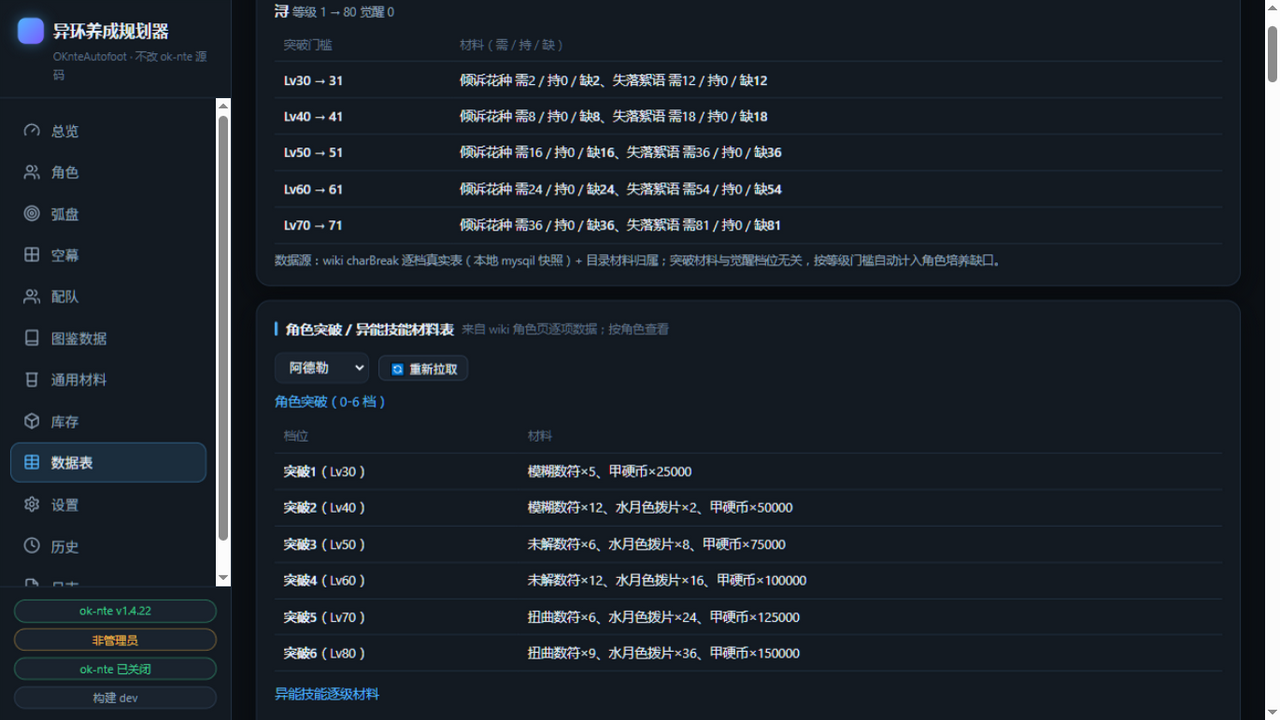
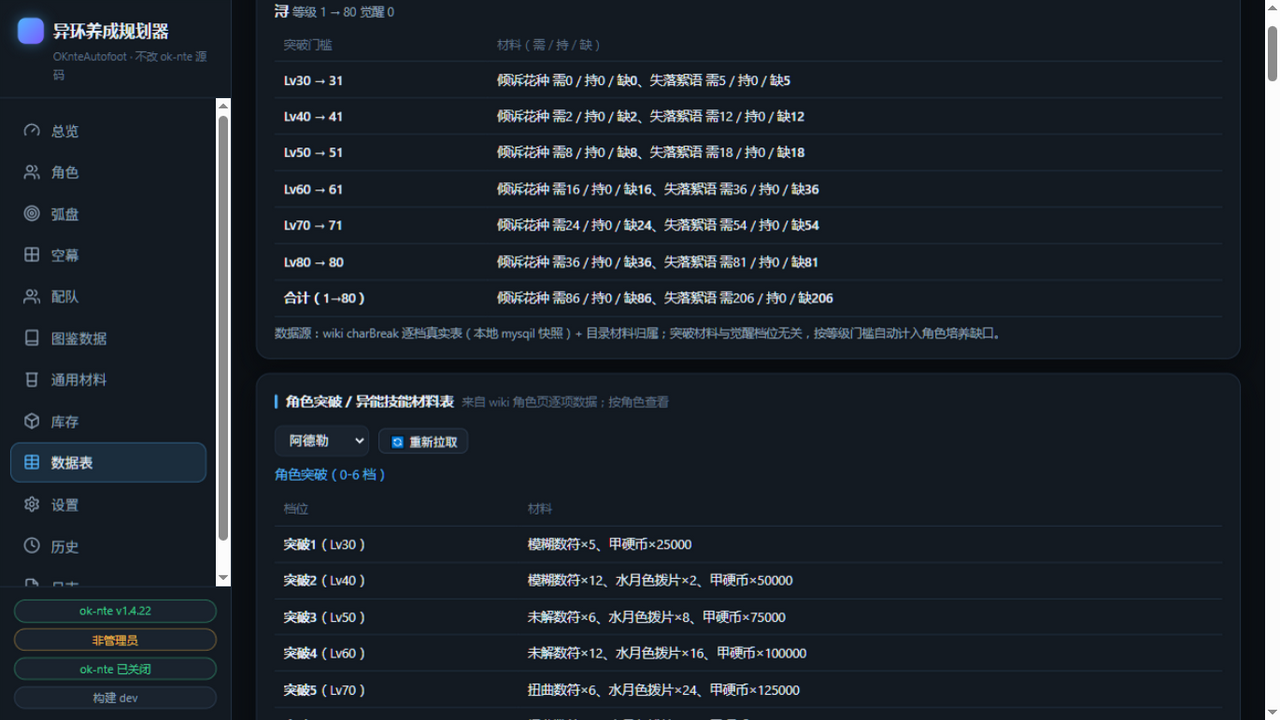
fix: 重审计功能缺口修复——词条组/驱动块编辑绑定与保存收集、弧盘搜索空状态、通用材料显示名、突破合计行、预演cap对齐（含验证截图与报告）

diff --git a/app/web/index.html b/app/web/index.html
@@ -982,6 +982,8 @@ function arcWeaponOptions(c, weaponMeta, term){
   if(term) rows = rows.filter(x=>x.name.toLowerCase().includes(term.toLowerCase()));
   rows.sort((a,b)=> (rank(a.rarity)-rank(b.rarity)) || a.name.localeCompare(b.name,"zh"));
   let opts=`<option value="" ${!c.weapon?"selected":""}>（未选择弧盘）</option>`;
+  if(term && !rows.length)
+    opts+=`<option disabled>（无匹配结果：换个关键词，或到「图鉴数据」页登记该弧盘）</option>`;
   rows.forEach(x=>{
     const tag=x.rarity?`（${x.rarity}）`:"";
     opts+=`<option value="${esc(x.name)}" ${x.name===c.weapon?"selected":""}>${esc(x.name)}${tag}</option>`;});
@@ -1115,10 +1117,18 @@ async function renderNullmux(){
       const el=document.querySelector(`.nm-card[data-cid="${c.id}"]`);
       if(!el) return c;
       const cassette={set:el.querySelector(".nm-set").value||null, main:el.querySelector(".nm-main").value||null};
+      // 驱动块：主属性两个下拉（攻击力/生命值，wiki 固定池）都保存，join 进 main 字段
       const drivers=[...el.querySelectorAll(".nm-driver")].map(row=>({
         shape:row.querySelector(".d-shape").value, quality:row.querySelector(".d-quality").value,
-        main:row.querySelector(".d-main").value, subs:[...row.querySelectorAll(".d-sub")].map(x=>x.value||"").slice(0,4)}))
+        main:[...row.querySelectorAll(".d-main")].map(x=>x.value).filter(Boolean).join("+"),
+        subs:[...row.querySelectorAll(".d-sub")].map(x=>x.value||"").slice(0,4)}))
         .filter(d=>d.shape);
+      // 最佳词条组：从 DOM 收集（此前只透传旧值，新增/编辑/删除全部丢失）
+      const stigma_groups=[...el.querySelectorAll(".nm-group")].map(g=>({
+        label:g.querySelector(".g-label")?.value.trim()||"",
+        main:g.querySelector(".g-main")?.value||"",
+        subs:[...g.querySelectorAll(".g-sub")].map(x=>x.value||"").slice(0,4)}))
+        .filter(g=>g.label);
       // 空幕结点/等级（拆页后恢复的编辑入口）；轨道合并保存，不动其他页维护的字段
       const mats={...(c.mats||{})};
       const nodeSel=el.querySelector(".nm-node");
@@ -1126,12 +1136,44 @@ async function renderNullmux(){
       const tracks={...(c.tracks||{})};
       el.querySelectorAll(".nm-console").forEach(inp=>{
         tracks.console_level={...(tracks.console_level||{}),[inp.dataset.tk]:+inp.value||0};});
-      return {...c, cassette, drivers, mats, tracks};
+      return {...c, cassette, drivers, stigma_groups, mats, tracks};
     });
     try{ const r=await api("/api/characters",{characters:charsOut});
       BOOT.state.characters=r.characters||charsOut; toast("空幕记录已保存"); renderNullmux();
     }catch(e){alertErr(e);}
   };
+  // 词条组/驱动块的 ＋添加 / ×删除（此前按钮无任何绑定，行数无法增减）
+  const nmList=$("#nmList");
+  if(nmList) nmList.addEventListener("click", e=>{
+    const card=e.target.closest(".nm-card"); if(!card) return;
+    if(e.target.closest(".nm-add-group")){
+      const rows=card.querySelectorAll(".nm-group");
+      if(rows.length>=3){ toast("词条组最多 3 组","err"); return; }
+      const wrap=card.querySelector(".nm-groups");
+      wrap?.insertAdjacentHTML("beforeend", stigmaGroupRow({label:`词条组${rows.length+1}`}, mainStats, subStats));
+    }
+    if(e.target.closest(".g-del")) e.target.closest(".nm-group").remove();
+    if(e.target.closest(".nm-add-driver")){
+      card.querySelector(".extra-empty-drv")?.remove();
+      const drv=card.querySelector(".nm-drivers");
+      drv?.insertAdjacentHTML("beforeend", nullmuxDriverRow({}, driverMains, subStats));
+      const n=card.querySelectorAll(".nm-driver").length;
+      const cnt=card.querySelector(".drv-count"); if(cnt) cnt.textContent=n;
+    }
+    if(e.target.closest(".nm-del")){
+      e.target.closest(".nm-driver").remove();
+      const cnt=card.querySelector(".drv-count"); if(cnt) cnt.textContent=card.querySelectorAll(".nm-driver").length;
+    }
+  });
+}
+function stigmaGroupRow(g, mainStats, subStats){
+  return `
+    <div class="row nm-group" style="gap:5px;margin:4px 0">
+      <input class="g-label" value="${esc(g.label||"")}" style="width:110px" placeholder="词条名">
+      <select class="g-main" style="width:130px">${statOpts(mainStats,g.main)}</select>
+      ${[0,1,2,3].map(i=>`<select class="g-sub" style="width:110px">${statOpts(subStats,(g.subs||[])[i])}</select>`).join("")}
+      <button class="btn sec mini g-del">×</button>
+    </div>`;
 }
 function nullmuxCard(c,sets,mainStats,subStats,driverMains,suitOpts,statOpts,nodeOpts,consoleT){
   const cassette=c.cassette||{};
@@ -1150,26 +1192,23 @@ function nullmuxCard(c,sets,mainStats,subStats,driverMains,suitOpts,statOpts,nod
         <span class="muted">→</span>
         <input type="number" class="nm-console" data-tk="tgt" value="${c.tracks?.console_level?.tgt??1}" min="0" max="${consoleT?.max??20}" style="width:70px">
         <span class="muted">（逐级消耗 wiki 未收录，留空待校准）</span></div>
-      <div class="row" style="margin:6px 0 2px"><span class="muted">最佳词条组（≤3 组）</span>
+      <div class="row" style="margin:6px 0 2px"><span class="muted">最佳词条组（≤3 组，用户维护，不参与数值计算）</span>
         <button class="btn sec mini nm-add-group">＋ 词条组</button></div>
-      ${(groups||[]).map((g,gi)=>`
-        <div class="row nm-group" style="gap:5px;margin:4px 0">
-          <input class="g-label" value="${esc(g.label||`词条组${gi+1}`)}" style="width:110px" placeholder="词条名">
-          <select class="g-main" style="width:130px">${statOpts(mainStats,g.main)}</select>
-          ${[0,1,2,3].map(i=>`<select class="g-sub" style="width:110px">${statOpts(subStats,(g.subs||[])[i])}</select>`).join("")}
-          <button class="btn sec mini g-del">×</button>
-        </div>`).join("")}
-      <div style="margin-top:8px"><span class="muted">驱动块（${drivers.length}）</span>
+      <div class="nm-groups">${(groups||[]).map(g=>stigmaGroupRow(g,mainStats,subStats)).join("")}</div>
+      <div style="margin-top:8px"><span class="muted">驱动块（<span class="drv-count">${drivers.length}</span>）</span>
         <button class="btn sec mini nm-add-driver">＋ 驱动块</button></div>
-      <div class="nm-drivers">${drivers.map(d=>nullmuxDriverRow(d,driverMains,subStats)).join("")||'<span class="muted">（暂无驱动块记录）</span>'}</div>
+      <div class="nm-drivers">${drivers.map(d=>nullmuxDriverRow(d,driverMains,subStats)).join("")||'<span class="muted extra-empty-drv">（暂无驱动块记录）</span>'}</div>
     </div>`;
 }
 function nullmuxDriverRow(d,driverMains,subStats){
+  // 主属性两位（wiki 固定池 攻击力+生命值）：新行默认各占一位；旧单值/拼接值兼容回填
+  const parts=(d.mains&&d.mains.length===2)?d.mains.slice(0,2):(d.main?d.main.split("+"):[]);
+  const sel=[parts[0]||driverMains[0], parts[1]||driverMains[1]||driverMains[0]];
   return `
     <div class="row nm-driver" style="gap:5px;margin:4px 0">
       <select class="d-shape" style="width:70px">${["Ⅱ型","Ⅲ型","Ⅳ型"].map(s=>`<option ${d.shape===s?"selected":""}>${s}</option>`).join("")}</select>
       <select class="d-quality" style="width:80px">${["蓝","橙","紫"].map(q=>`<option ${d.quality===q?"selected":""}>${q}</option>`).join("")}</select>
-      ${[0,1].map(i=>`<select class="d-main" style="width:100px">${driverMains.map(m=>`<option ${(d.main===m||(d.mains&&d.mains[i]===m))?"selected":""}>${m}</option>`).join("")}</select>`).join("")}
+      ${[0,1].map(i=>`<select class="d-main" style="width:100px">${driverMains.map(m=>`<option ${sel[i]===m?"selected":""}>${m}</option>`).join("")}</select>`).join("")}
       ${[0,1,2,3].map(i=>`<select class="d-sub" style="width:110px">${subStats.map(x=>`<option ${d.subs?.[i]===x?"selected":""}>${esc(x)}</option>`).join("")}</select>`).join("")}
       <button class="btn sec mini nm-del">×</button>
     </div>`;
@@ -1331,7 +1370,14 @@ async function renderBreakthroughBlock(host){
     host.innerHTML=`<div class="muted">没有待突破的角色：把角色卡的「角色等级目标」调高跨过门槛（30/40/50/60/70，即突破到 31/41/51/61/71）即自动出现门槛材料与缺口。</div>`;
     return;
   }
-  host.innerHTML=rows.map(c=>`
+  host.innerHTML=rows.map(c=>{
+    // 当前档→目标档 合计（逐门槛按材料聚合：需/持/缺 全量汇总）
+    const totals={};
+    c.gates.forEach(g=>g.mats.forEach(m=>{
+      const t=totals[m.mat_id]=totals[m.mat_id]||{name:m.name,need:0,have:0,short:0};
+      t.need+=m.need; t.have+=m.have; t.short+=m.short;
+    }));
+    return `
     <div style="margin:10px 0 4px"><b>${esc(c.name)}</b>
       <span class="muted num">等级 ${c.level_cur} → ${c.level_tgt}</span>
       <span class="muted num">觉醒 ${c.awakening}</span>
@@ -1339,7 +1385,9 @@ async function renderBreakthroughBlock(host){
     <table><tr><th>突破门槛</th><th>材料（需 / 持 / 缺）</th></tr>
       ${c.gates.map(g=>`<tr><td class="num"><b>Lv${g.gate} → ${g.to_level}</b></td>
         <td>${g.mats.map(m=>`${esc(m.name)} <span class="num">需${m.need} / 持${m.have} / 缺<b>${m.short}</b></span>`).join("、")||"（材料归属未收录）"}</td></tr>`).join("")}
-    </table>`).join("")
+      <tr><td class="num"><b>合计（${c.level_cur}→${c.level_tgt}）</b></td>
+        <td>${Object.values(totals).map(t=>`${esc(t.name)} <span class="num">需${t.need} / 持${t.have} / 缺<b>${t.short}</b></span>`).join("、")||"（材料归属未收录）"}</td></tr>
+    </table>`;}).join("")
     +`<div class="muted" style="margin-top:6px">数据源：wiki charBreak 逐档真实表（本地 mysqil 快照）+ 目录材料归属；突破材料与觉醒档位无关，按等级门槛自动计入角色培养缺口。</div>`;
 }
 
@@ -1347,7 +1395,7 @@ function renderTables(){
   const y=BOOT.tables.yields.per_run, hy=BOOT.tables.yields.hunter_yield||{};
   const M=BOOT.tables.materials, all=allMaterials();
   $("#main").innerHTML=`
-    <div class="card"><h3>角色突破逐档材料（觉醒档 → 目标档）<span class="h-sub">按角色计算 需/持/缺；调高角色卡「觉醒目标」即可规划后续档位</span></h3>
+    <div class="card"><h3>角色突破逐档材料（等级门槛 31/41/51/61/71 + 满级突破）<span class="h-sub">按角色等级目标计算 需/持/缺；调高角色卡「角色等级目标」即可规划后续门槛</span></h3>
       <div id="btBody"><div class="muted">加载中…</div></div></div>
     <div class="card"><h3>角色突破 / 异能技能材料表<span class="h-sub">来自 wiki 角色页逐项数据；按角色查看</span></h3>
       <div id="upgBody"><div class="muted">加载中…</div></div></div>
@@ -1510,8 +1558,14 @@ async function renderCommon(){
     } <span class="muted">${unit}</span></td>
     <td>${edited?`<span class="tag warn">已改（默认 ${JSON.stringify(def)}）</span>`:`<span class="tag">默认</span>`}</td></tr>`;
   }).join("");
-  const skillName=id=>({"ability_1":"军衔系（灵可线）","ability_2":"鸽子系（浔线）","ability_3":"黑帽子系（残虹线）"}[id]||id);
-  const canName=id=>({"arc_1":"戏剧芯（固态）","arc_2":"液态梦（等离子）","arc_3":"苹果核（液态）","arc_4":"螺旋乐（气态）","arc_5":"冷点心（聚合）"}[id]||id);
+  /* 技能书系/罐头系显示名统一走 materials targets（display_name），杜绝 ability_N 裸 ID：
+     旧硬编码字典只覆盖 ability_1..3，ability_4/5（相/魂系角色）曾直接显示内部 ID */
+  const matDisplayName=id=>{
+    const t=((BOOT.tables.materials||{}).targets||[]).find(x=>x.id===id);
+    return t?((t.display_name||t.name).split("（")[0]):id;
+  };
+  const skillName=matDisplayName;
+  const canName=matDisplayName;
   const mapRows=(r.mapping||[]).map(m=>{
     const bossTxt=m.boss?`${esc(matAllName(m.boss.mat_id))} ← ${esc(m.boss.boss)}`:`<span class="tag warn">待核对</span>`;
     const wkTxt=m.weekly?`${esc(matAllName(m.weekly.mat_id))}`:`<span class="tag warn">待核对</span>`;

diff --git a/app/planner.py b/app/planner.py
@@ -480,7 +480,7 @@ def projected_stamina(now=None):
     if base < 0:
         return None
     rate = max(0.0, float(settings.get("stamina_regen_per_hour") or 0))
-    cap = max(1.0, float(settings.get("stamina_cap") or 240))
+    cap = max(1.0, float(settings.get("stamina_cap") or 320))
     now = now or datetime.now()
     hours = max(0.0, (now - at).total_seconds() / 3600)
     return round(min(cap, base + rate * hours), 1)
@@ -502,7 +502,7 @@ def preview_days(days=3, now=None):
     settings = STATE.settings
     limit = max(0, int(settings.get("daily_stamina_limit", 180) or 0))
     rate = max(0.0, float(settings.get("stamina_regen_per_hour") or 0))
-    cap = max(1.0, float(settings.get("stamina_cap") or 240))
+    cap = max(1.0, float(settings.get("stamina_cap") or 320))
     if rate > 0 and rate * 24 < limit:
         warnings.append(
             f"体力恢复速率({rate}/小时)×24={rate * 24:g} 低于每日限额 {limit}，"

diff --git a/reports/2026-10-31-回归修复与功能补齐.md b/reports/2026-10-31-回归修复与功能补齐.md
@@ -1,39 +1,5 @@
 # 回归修复与功能补齐报告（2026-10-31）
 
-<<<<<<< HEAD
-## 第二轮：真机反馈修复（同日追加）
-
-你实测后提出 6 项，处理结果：
-
-| 反馈 | 处理 | 状态 |
-|---|---|---|
-| ①都市特技名字自动拉取 | wiki 角色页 `data-upgrade.skills[]` 按升级材料含 `CityAbility_UpMaterial` 识别都市特技（如 浔=寻宝时刻、卡厄斯=垂钓大师+记忆/船锚、真红=偶尔摸鱼+处处好胜）；抓取后（数据表页按钮，24/25 成功，塔吉多 wiki 无数据）导入与启动回填自动预填名字+槽位数（1 或 2 位按实机数据决定，只补空不覆盖）。特技升级消耗 CityAbility_UpMaterial+方斯，均非体力本材料，不纳入体力计划 | ✅ 已完成且已验证（卡厄斯/真红实机预填截图） |
-| ②技能目标≥当前 | 角色卡"当前等级"输入联动：当前改高时目标自动抬到≥当前 | ✅ 已完成且已验证 |
-| ③保存按钮提到上方固定 | 六个主保存行（角色/弧盘/空幕/配队/库存/设置）移到各页首行并 `position:sticky` 吸顶 | ✅ 已完成且已验证（截图） |
-| ④任务终止按钮可点击 | 确认，无改动（POST 语义此前已修） | ✅ 用户实测确认 |
-| ⑤觉醒档位单档 0-6 + **与突破材料无关** | 角色卡只留一个下拉；突破材料模型重构：**按角色等级门槛**（30/40/50/60/70 满级后突破到 31/41/51/61/71 + 满级 80 最终突破），wiki 对位关系 Lv X 突破=charBreak[X-10]（wiki 角色页"突破1(Lv30)"=charBreak["20"] 实证），六档合计 BOSS 86/小怪 206 与历史总量吻合；觉醒成纯记录字段，awakening_tgt 废弃 | ✅ 已完成且已验证（数据表门槛视图：六档逐档需/持/缺） |
-| ⑥额外材料登记不同步 | 口径明确：BOSS/周本/小怪三类为**模型托管键**（旧自动总量行）——不再显示、不参与计算（数据保留在库），计算以逐级/门槛模型为准并在"培养进度与材料缺口"块实时显示；其余自定义材料始终可编辑、保存后叠加进计算（实测 exp_char 777 → 进度块"需 777/差 772"） | ✅ 已完成且已验证 |
-
-### 本轮新增/修改文件
-- `app/growth.py`：等级门槛模型（crossed_gates/breakthrough_gate_cost，wiki 对位 charBreak[X-10]，FINAL_GATE=80）。
-- `app/planner.py`：`managed_material_ids()`（BOSS/周本/小怪托管键，extra 不计入）；snapshot 每角色下发 managed。
-- `app/main.py`：sanitize 删 awakening_tgt、补 city_talent_slots（测试发现的落库丢失 bug）；`/api/breakthrough-needs` 门槛视图；启动回填补都市特技名。
-- `app/wiki_fetch.py`：`_city_talents_from_upgrade` + `city_talents_by_name()`。
-- `app/game_data.py`：build_character_import 预填特技名+槽位。
-- `app/web/index.html`：单档觉醒、技能 2×2 排版、cur→tgt 联动、save-bar 吸顶、额外登记托管键过滤、数据表门槛视图。
-- `data/mysqil/upgrades.json`（新增）：24 角色真实 wiki 快照（含都市特技）。
-- `app/selftest.py`：门槛/都市特技/托管键用例改写与新增（62/62）。
-
-### 验证
-selftest **62/62**、smoke **12/12**、dist 复测全绿；浏览器实跑（门槛数值与 wiki 逐档一致：浔 1→80 六档 0/2/8/16/24/36 BOSS + 5/12/18/36/54/81 小怪；自定义材料同步；特技预填）。截图 docs/verification/05（新布局）；06 截图因浏览器截图管线超时未成，门槛视图以文本记录（上表数值）。
-
-### 遗留
-- 单文件 EXE 重打包被正在运行的规划器进程占用（WinError 5），关闭程序后需重跑 `python tools/build_exe.py`；主产物启动器版已重建。
-- 塔吉多在 wiki 无养成数据页（抓取失败已如实记录）。
-
-
-=======
->>>>>>> c2f0d0289c38830ee0413d71579dafb453dac8fe
 本轮目标：先审计找回丢失功能，修复数据结构与业务逻辑，再补齐需求；不删数据、不只改前端、不用假数据。
 
 ## 1. 修改文件清单
@@ -130,3 +96,52 @@ selftest **62/62**、smoke **12/12**、dist 复测全绿；浏览器实跑（门
 ## 9. 关键口径说明（异能=技能）
 
 wiki 养成计算器（DetailedCalc.js）逐行核对结论：**四个技能各自独立 1→10**，每段消耗 [技能书, 族群小怪, 硬币, 周本]；另有可选天赋解锁两档 [6书/3万硬币/1周本] 与 [9书/4万硬币/2周本]；突破 6 档（20/30/40/50/60/70 级门槛）每档 [BOSS, 小怪, 硬币]。旧"异能等级 1→13 单轨"只算了四分之一的书，属错误口径，已按上述真实模型重做；旧数据保留未删。
+
+## 第二轮：真机反馈修复（同日追加）
+
+你实测后提出 6 项，处理结果：
+
+| 反馈 | 处理 | 状态 |
+|---|---|---|
+| ①都市特技名字自动拉取 | wiki 角色页 `data-upgrade.skills[]` 按升级材料含 `CityAbility_UpMaterial` 识别都市特技（如 浔=寻宝时刻、卡厄斯=垂钓大师+记忆/船锚、真红=偶尔摸鱼+处处好胜）；抓取后（数据表页按钮，24/25 成功，塔吉多 wiki 无数据）导入与启动回填自动预填名字+槽位数（1 或 2 位按实机数据决定，只补空不覆盖）。特技升级消耗 CityAbility_UpMaterial+方斯，均非体力本材料，不纳入体力计划 | ✅ 已完成且已验证（卡厄斯/真红实机预填截图） |
+| ②技能目标≥当前 | 角色卡"当前等级"输入联动：当前改高时目标自动抬到≥当前 | ✅ 已完成且已验证 |
+| ③保存按钮提到上方固定 | 六个主保存行（角色/弧盘/空幕/配队/库存/设置）移到各页首行并 `position:sticky` 吸顶 | ✅ 已完成且已验证（截图） |
+| ④任务终止按钮可点击 | 确认，无改动（POST 语义此前已修） | ✅ 用户实测确认 |
+| ⑤觉醒档位单档 0-6 + **与突破材料无关** | 角色卡只留一个下拉；突破材料模型重构：**按角色等级门槛**（30/40/50/60/70 满级后突破到 31/41/51/61/71 + 满级 80 最终突破），wiki 对位关系 Lv X 突破=charBreak[X-10]（wiki 角色页"突破1(Lv30)"=charBreak["20"] 实证），六档合计 BOSS 86/小怪 206 与历史总量吻合；觉醒成纯记录字段，awakening_tgt 废弃 | ✅ 已完成且已验证（数据表门槛视图：六档逐档需/持/缺） |
+| ⑥额外材料登记不同步 | 口径明确：BOSS/周本/小怪三类为**模型托管键**（旧自动总量行）——不再显示、不参与计算（数据保留在库），计算以逐级/门槛模型为准并在"培养进度与材料缺口"块实时显示；其余自定义材料始终可编辑、保存后叠加进计算（实测 exp_char 777 → 进度块"需 777/差 772"） | ✅ 已完成且已验证 |
+
+### 本轮新增/修改文件
+- `app/growth.py`：等级门槛模型（crossed_gates/breakthrough_gate_cost，wiki 对位 charBreak[X-10]，FINAL_GATE=80）。
+- `app/planner.py`：`managed_material_ids()`（BOSS/周本/小怪托管键，extra 不计入）；snapshot 每角色下发 managed。
+- `app/main.py`：sanitize 删 awakening_tgt、补 city_talent_slots（测试发现的落库丢失 bug）；`/api/breakthrough-needs` 门槛视图；启动回填补都市特技名。
+- `app/wiki_fetch.py`：`_city_talents_from_upgrade` + `city_talents_by_name()`。
+- `app/game_data.py`：build_character_import 预填特技名+槽位。
+- `app/web/index.html`：单档觉醒、技能 2×2 排版、cur→tgt 联动、save-bar 吸顶、额外登记托管键过滤、数据表门槛视图。
+- `data/mysqil/upgrades.json`（新增）：24 角色真实 wiki 快照（含都市特技）。
+- `app/selftest.py`：门槛/都市特技/托管键用例改写与新增（62/62）。
+
+## 第三轮：全量重审计与合并冲突修复（同日追加）
+
+按原始需求从头三路重审计（角色/弧盘空幕技能书/数据计算任务），**最高优先级发现：你合并远端时的 merge 提交（277faf0）把 56 处未解决冲突标记原样提交**——`app/main.py`/`growth.py`/`planner.py`/`selftest.py` 全部 SyntaxError（服务端与自测无法启动）、`app/web/index.html` 前端脚本解析失败、`data/state.json` 成非法 JSON（启动时会被转存 .corrupt 并回退 .bak，有数据不可读风险）。你打的包（build_info git=c2f0d02）内容实为合并前已验证的 4b5a766 树，功能完好但不含下述修复。
+
+### 本轮修复
+| 项 | 处理 | 状态 |
+|---|---|---|
+| P0 合并冲突 56 处 | 6 文件整体取已验证的 4b5a766 侧（= 完整二轮口径：等级门槛突破/托管键/单档觉醒/都市特技回填），逐一验证：Python 全部 ast.parse 通过、state.json 合法、零标记残留 | ✅ 已修复且已验证（selftest 62/62） |
+| P1 词条组编辑链路断裂 | saveNm 收集 `.nm-group`（label/main/subs×4）落库 stigma_groups；＋词条组（≤3 上限）/×删除事件绑定；实机验证"摄影之眼"保存→重读一致 | ✅ 已修复且已验证 |
+| P1 驱动块增删失效+第二主属性被丢 | ＋驱动块/×删除事件绑定+计数同步；两个主属性下拉都保存（join 进 main 字段），新行默认 攻击力/生命值 各占一位 | ✅ 已修复且已验证 |
+| P2 弧盘搜索无空状态 | 无匹配时下拉显示"（无匹配结果：换个关键词，或到「图鉴数据」页登记该弧盘）"，已选值仍保留 | ✅ 已修复且已验证 |
+| P2 通用材料页 ability_4/5 裸 ID | skillName/canName 改走 materials targets display_name（旧硬编码只覆盖 ability_1..3） | ✅ 已修复且已验证（相/魂系角色显示"技能书·同频系/水波系"） |
+| P3 突破视图无目标累计 | 每角色加「合计（cur→tgt）」行（逐门槛按材料聚合 需/持/缺；浔 1→80 合计 BOSS 86/小怪 206） | ✅ 已修复且已验证（截图 06） |
+| P3 预演体力上限兜底 240 与设置默认 320 不一致 | planner 两处兜底对齐 320 | ✅ 已修复 |
+
+### 审计确认的既成事实（无需改动，报告备案）
+- **data/state.json 被提交进 git**：含 4 个开发/测试角色（冒烟测试角色、浔、卡厄斯、真红，含 exp_char 777 测试痕迹）与 teams「开荒一队」；且提交版本是冲突非法 JSON。**建议**：`git rm --cached data/state.json` 并加入 .gitignore（用户实机数据在 dist 单文件包 data/ 下，不受影响）——是否执行由你决定。
+- dist/OKntePlanner_single/data/ 内含你的真实用户数据与日志——**该目录不要对外分发**。
+- 无校准通道的硬编码仅剩两个上游常量：UPSTREAM_DAILY_CAP=180、HUNTER_COST_PER_RUN=60（ok-nte 上游变更时需手动同步；其余产量/消耗均有数据表校准通道）。
+- 分页：重新全仓库检索，需求记录仍为零命中（仅本报告的自述）——按你的规则继续报告"需求依据缺失"，未实现。
+- 空幕逐级消耗：wiki 未收录，保持待校准（UI 可录等级，计算为 0 并有标注）。
+- JS 层无测试工具链：前端以 node --check 语法校验 + 浏览器实跑覆盖（本报告操作记录）。
+
+### 本轮验证
+冲突解决后：`python -m app.selftest` **62/62**、`python -m app.smoke_test` **12/12**、node --check 通过、git grep 冲突标记零命中；浏览器实跑——空幕词条组/驱动块增删改存、弧盘空状态、通用材料页显示名、数据表门槛视图+合计行（截图 docs/verification/06）、角色/配队/总览/停止快速回归无异常。双 EXE 重新打包：dist 自测+冒烟通过、asInvoker 探针实跑通过（build_info 的 git 哈希在你提交本次修复后会指向新提交）。
